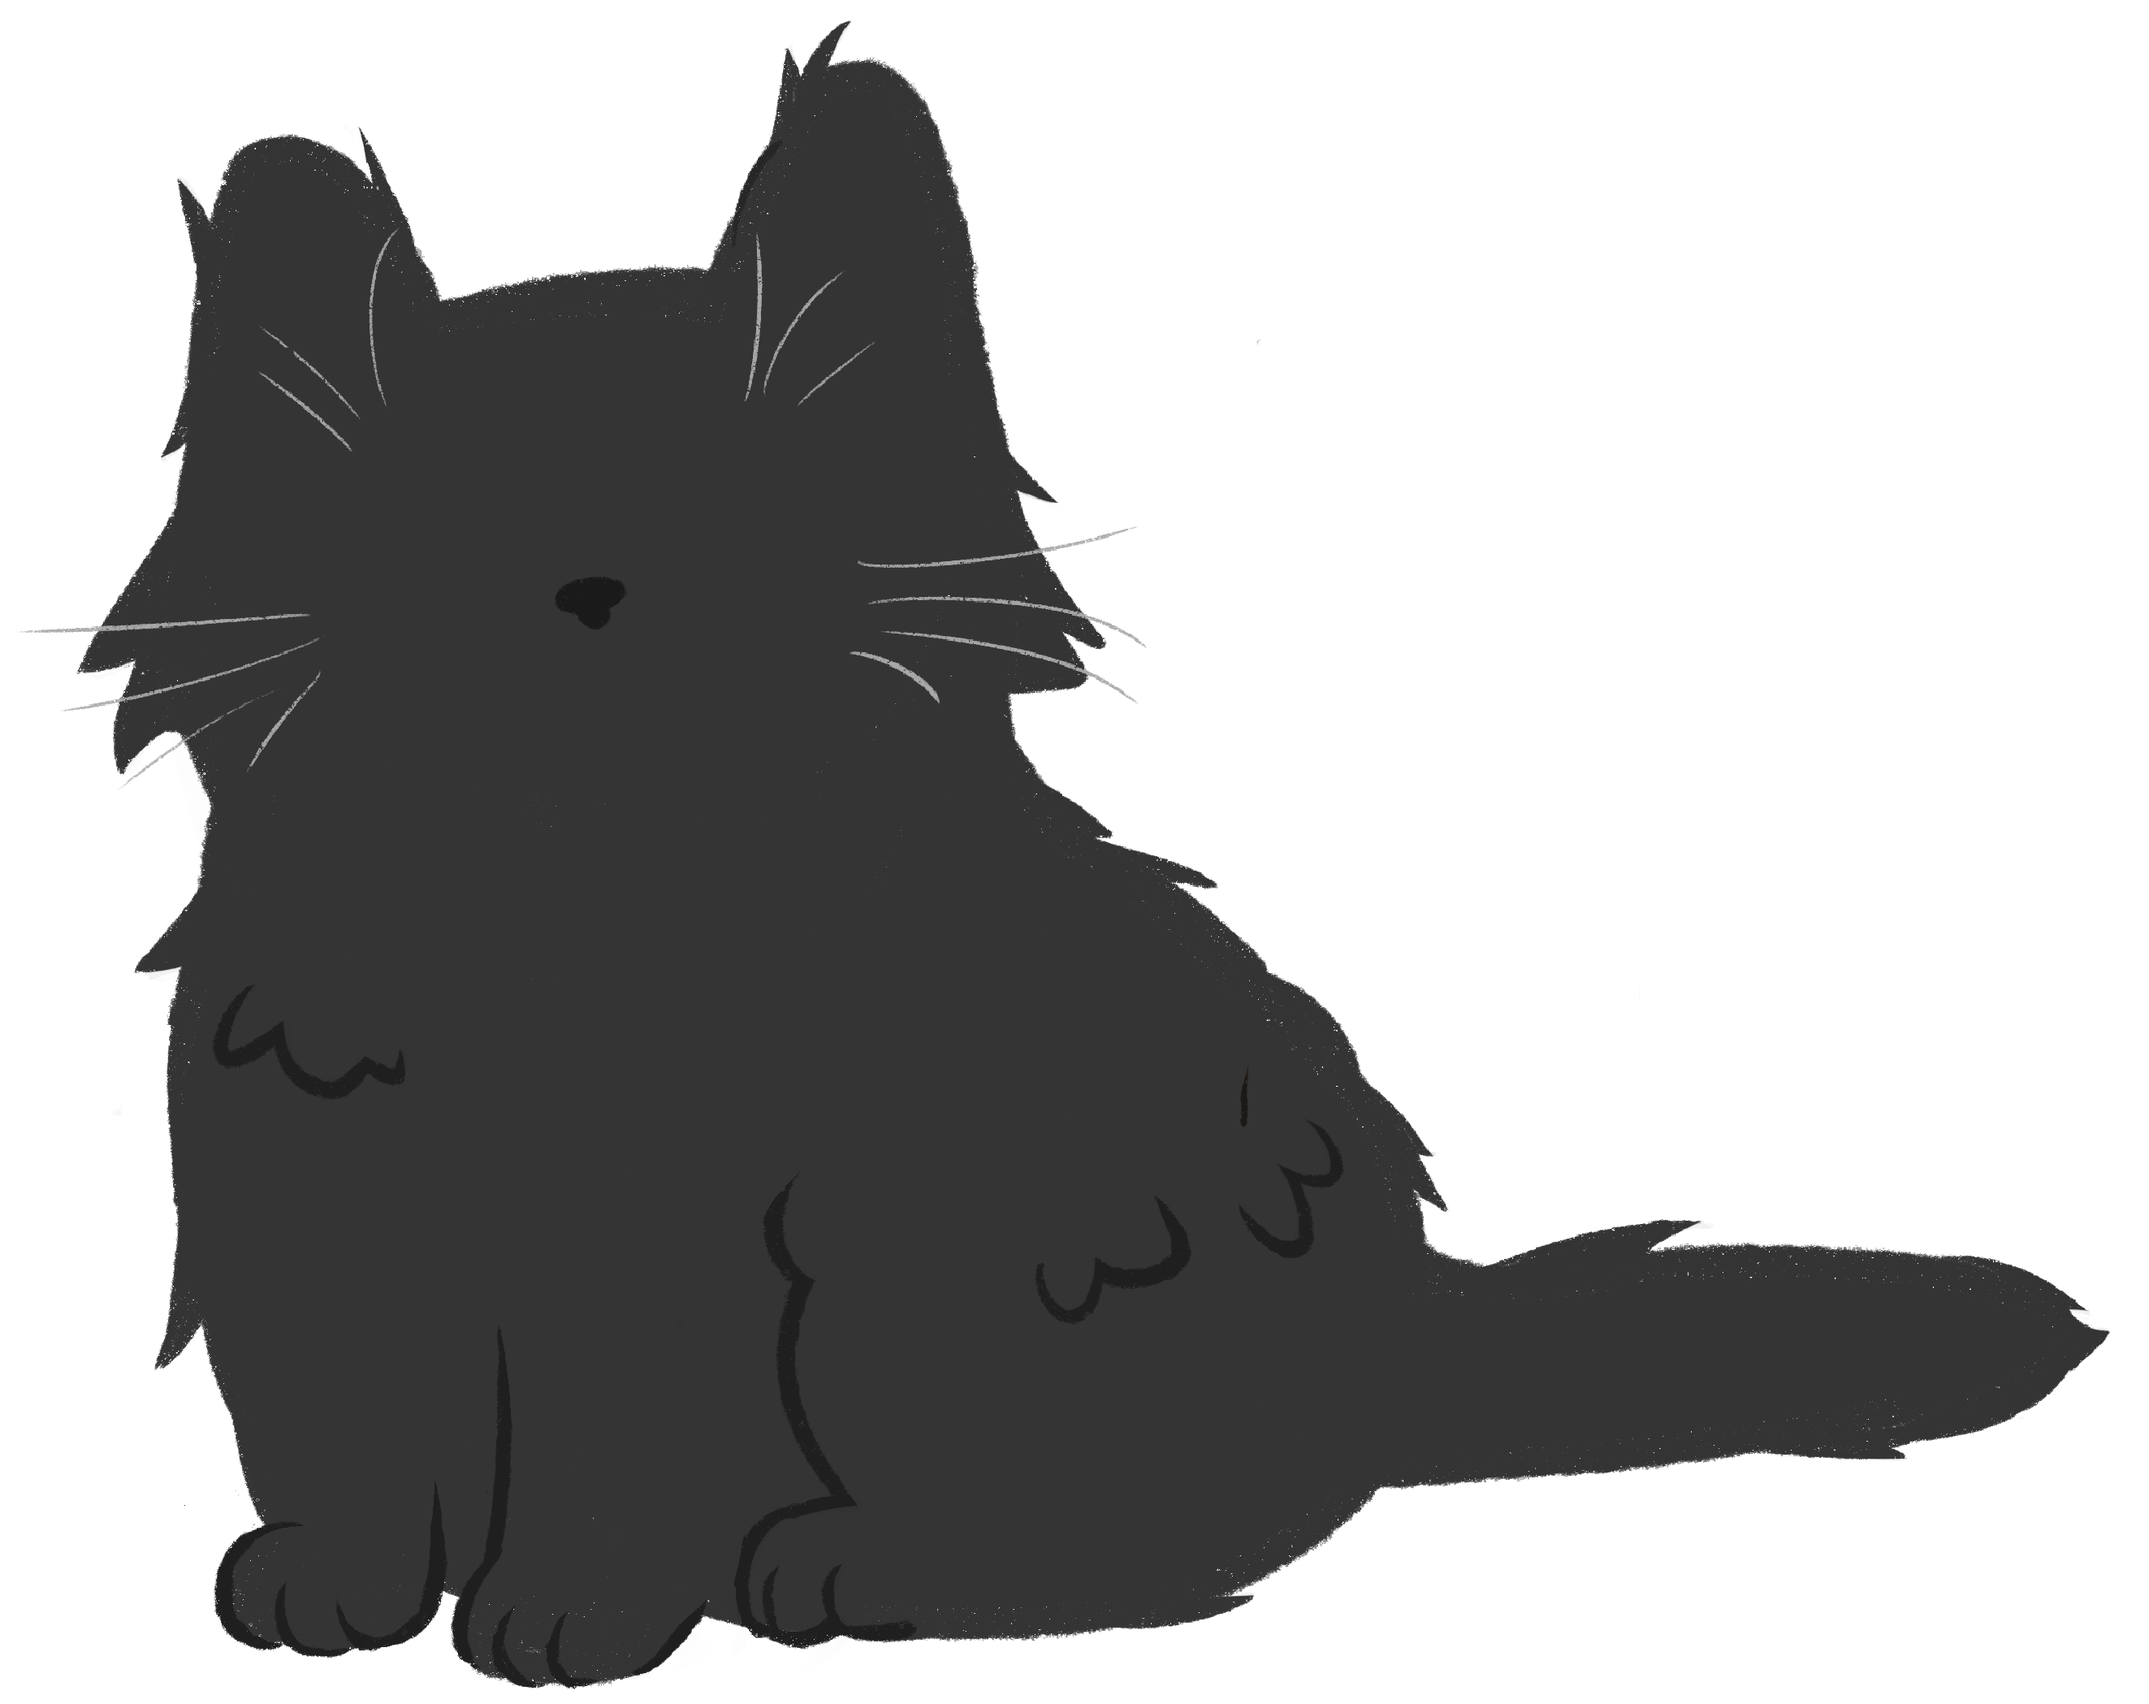
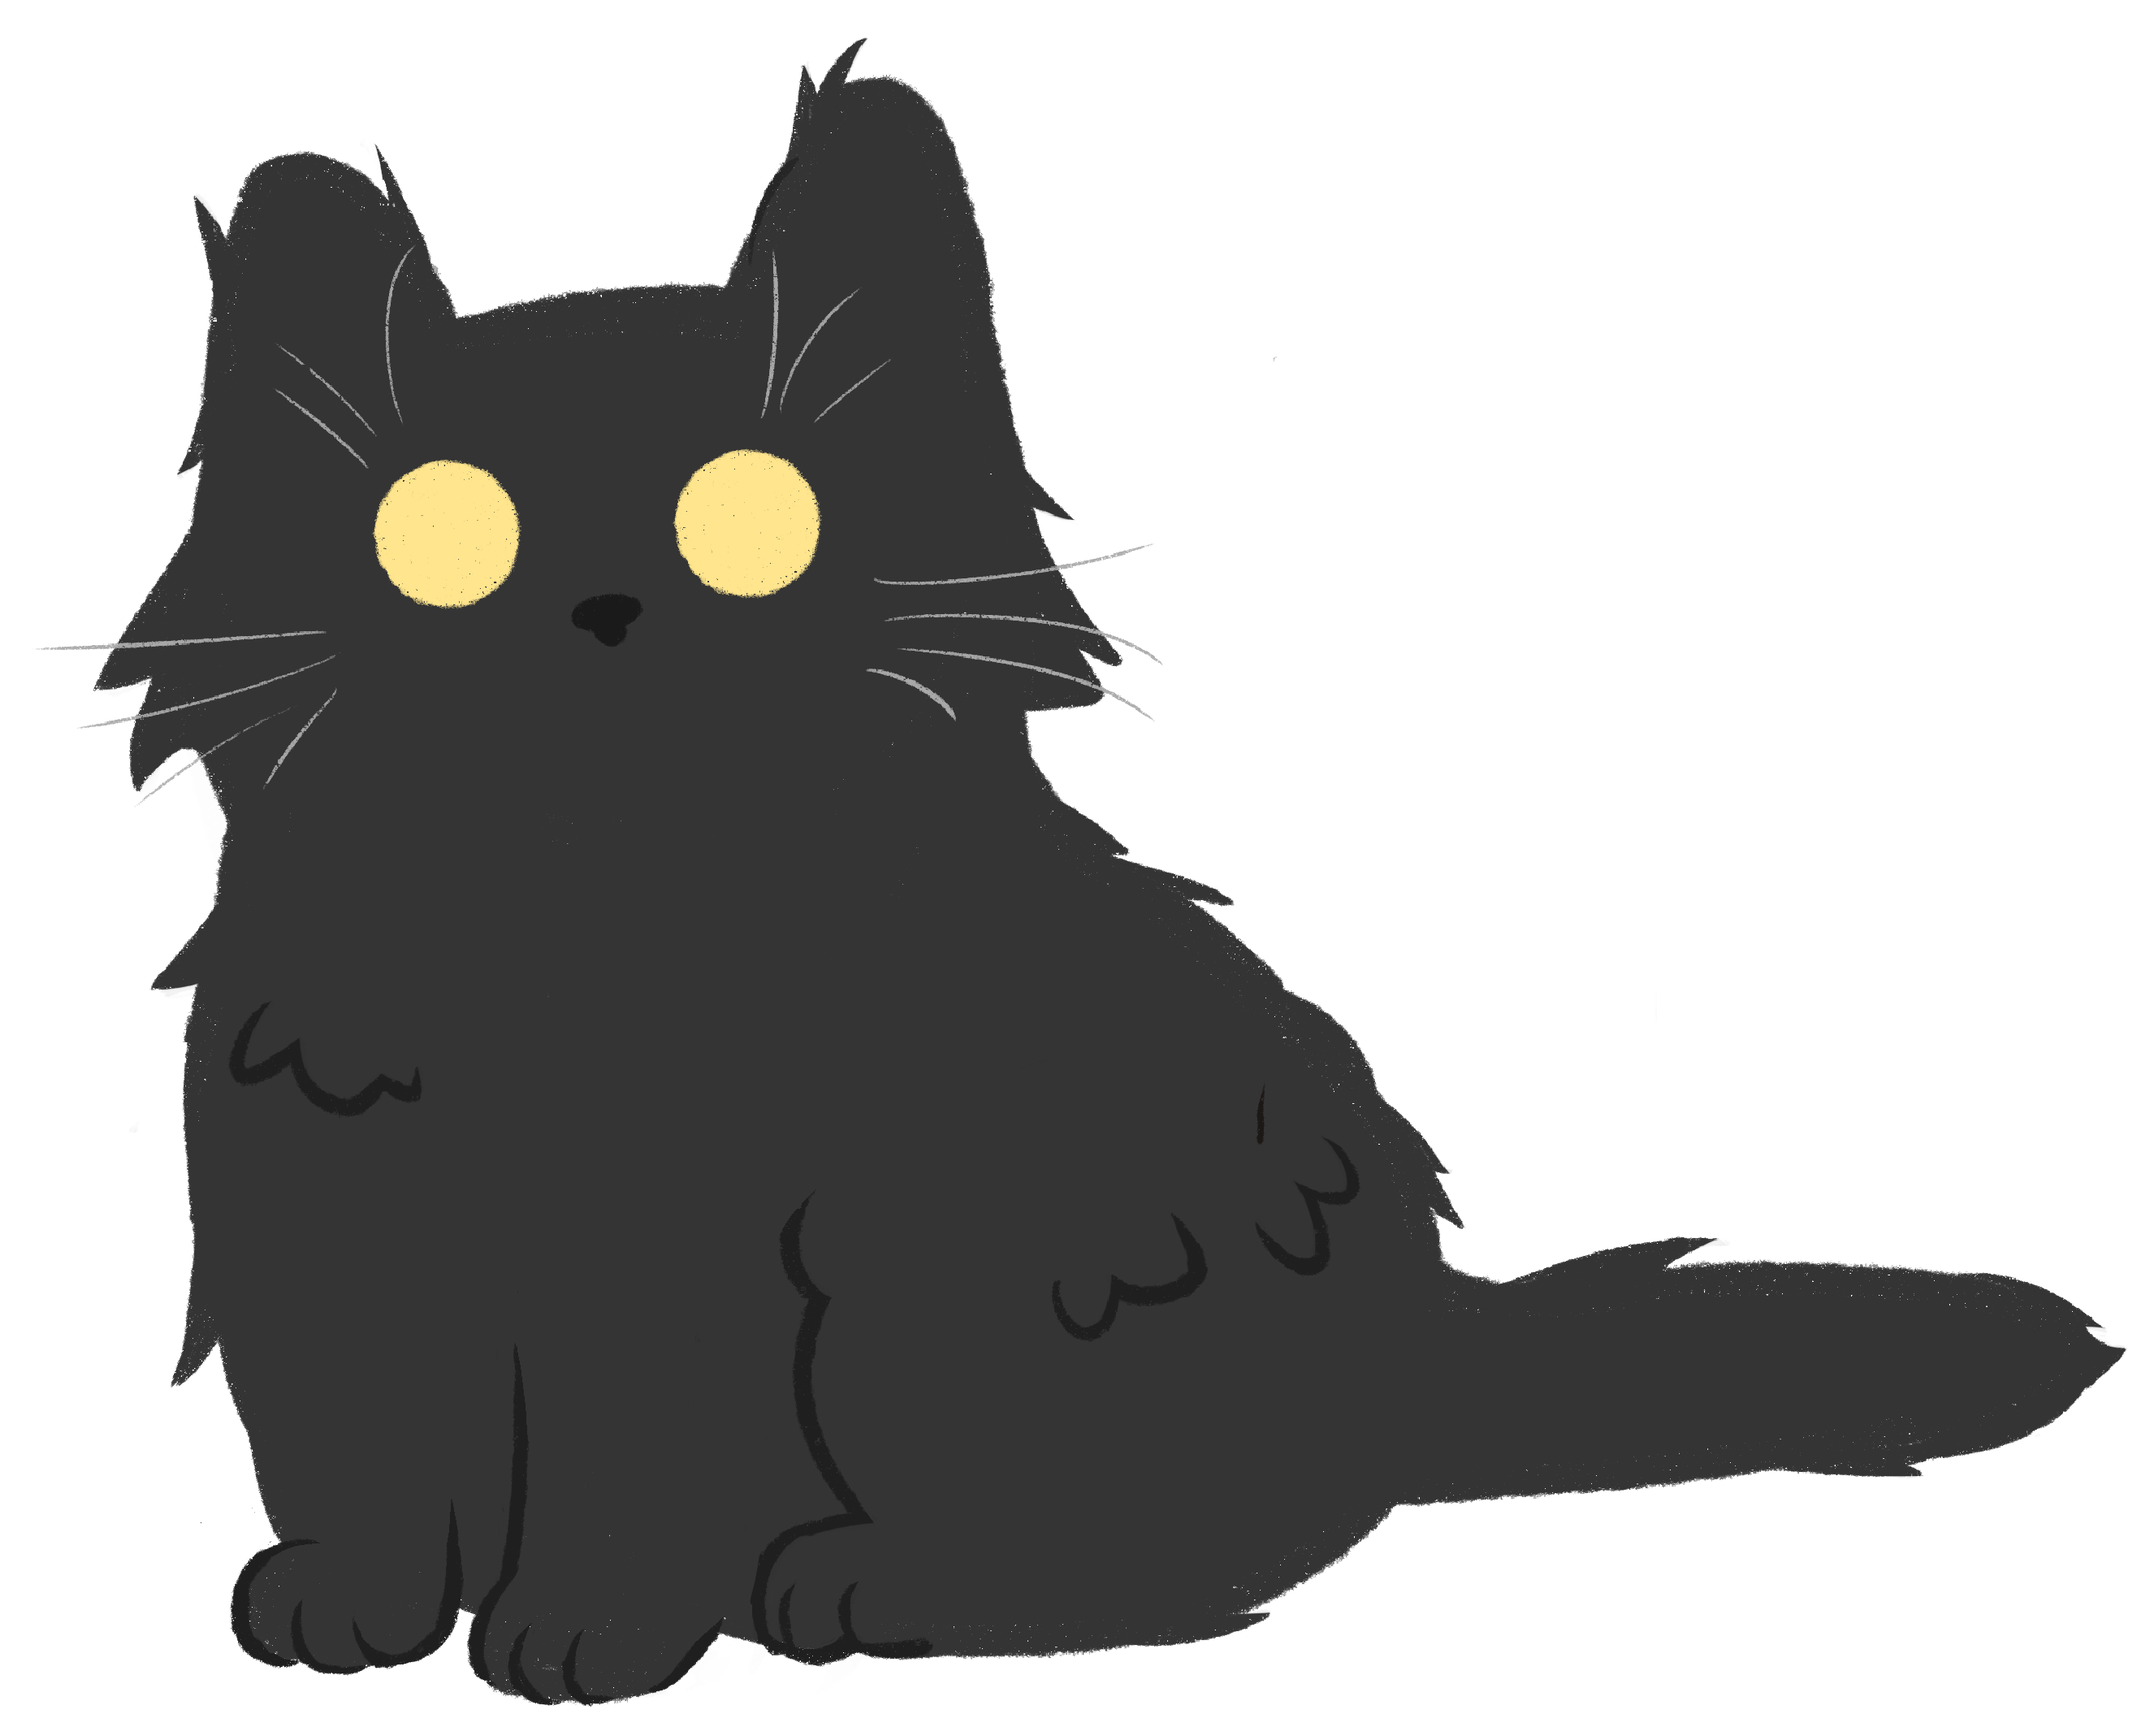
Update

diff --git a/public/index.html b/public/index.html
@@ -98,13 +98,9 @@
     <main>
       <p> Under construction </p>
       <img id="anchor" src="images/cat_body.png" alt="cat drawing" />
-      <div id="eyes_back"> 
-        <img class="eye_back" src="images/cat_eye_back.png" style="left: 589px"/>
-        <img class="eye_back" src="images/cat_eye_back.png" style="left: 729px"/>
-      </div>
       <div id="eyes"> 
-        <img class="eye" src="images/cat_eye.png" style="left: 597px"/>
-        <img class="eye" src="images/cat_eye.png" style="left: 735px"/>
+        <img class="eye" src="images/cat_eye.png" style="left: 612px"/>
+        <img class="eye" src="images/cat_eye.png" style="top: 172px; left: 728px"/>
       </div>
     </main>
   </body>

diff --git a/public/style.css b/public/style.css
@@ -22,14 +22,8 @@ main{
 
 #eyes, #eyes img{
   position: absolute;
-  width: 70px;
-  top: 170px; 
-}
-
-#eyes_back img{
-  position: absolute;
-  width: 80px;
-  top: 334px; 
+  width: 63px;
+  top: 175px; 
 }
 
 h1 {
@@ -68,6 +62,5 @@ a:visited {
 
 p{
   background-color: black;
-  position: relative;
   display: center;
 }
